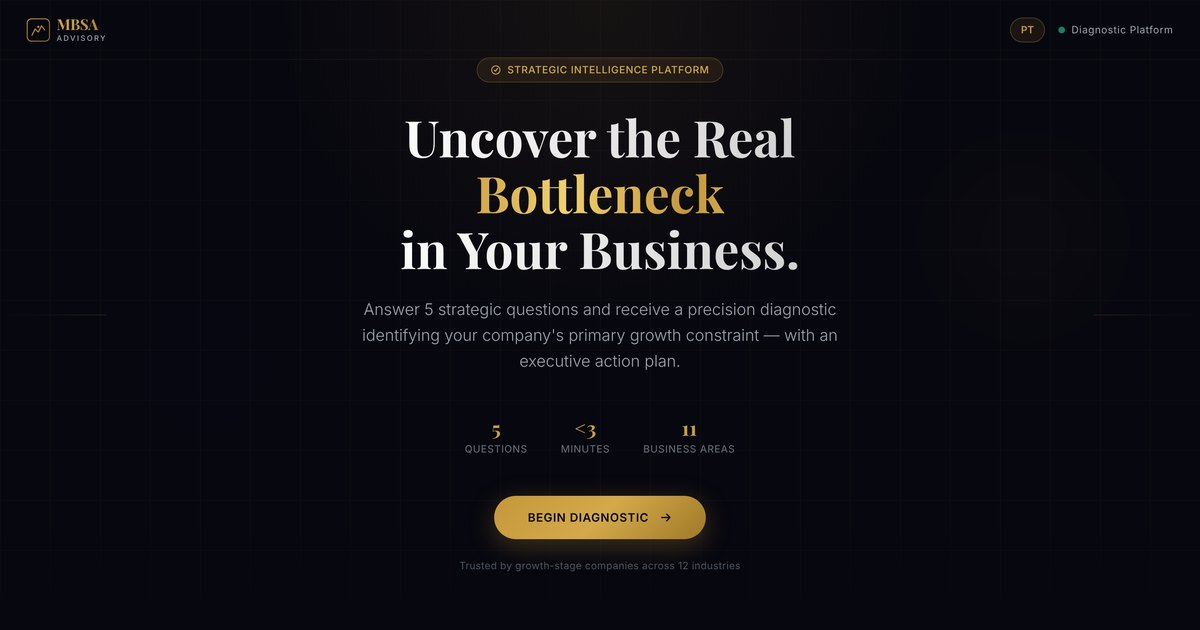
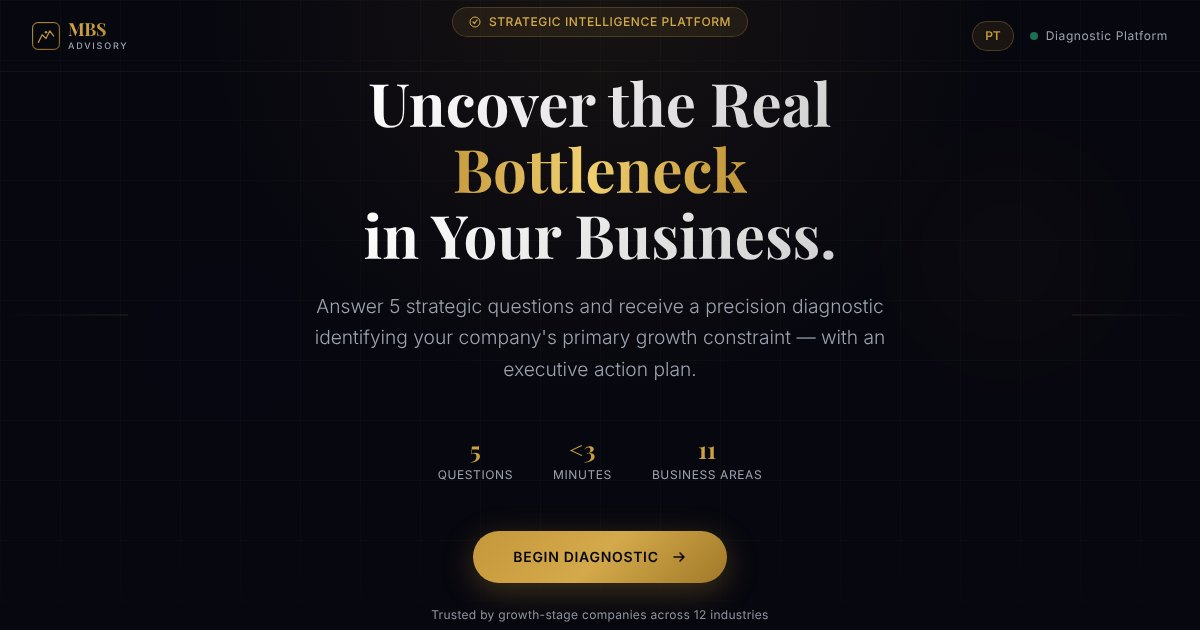
Brand: MBS Advisory everywhere (was MBSA) (#3)
Logo, page title, Open Graph / Twitter metadata, site name, social
preview image (re-captured from the landing page) and package name now
say "MBS Advisory", matching the other MBS sites.

Claude-Session: https://claude.ai/code/session_01H7nTUnYvdveF7rdjHHDmxM

diff --git a/app/layout.tsx b/app/layout.tsx
@@ -24,21 +24,21 @@ const SITE_URL = 'https://marlonbsiqueira.github.io/MBSforms/';
 
 export const metadata: Metadata = {
   metadataBase: new URL(SITE_URL),
-  title: 'MBSA Advisory | Strategic Business Diagnostic',
+  title: 'MBS Advisory | Strategic Business Diagnostic',
   description:
     'AI-powered business diagnostic platform. Identify your company\'s real bottlenecks and unlock your next level of growth.',
   alternates: { canonical: SITE_URL },
   openGraph: {
-    title: 'MBSA Advisory | Strategic Business Diagnostic',
+    title: 'MBS Advisory | Strategic Business Diagnostic',
     description: 'Identify your company\'s real bottlenecks in under 5 minutes.',
     type: 'website',
     url: SITE_URL,
-    siteName: 'MBSA Advisory',
-    images: [{ url: `${SITE_URL}og-image.jpg`, width: 1200, height: 630, alt: 'MBSA Advisory — Strategic Business Diagnostic' }],
+    siteName: 'MBS Advisory',
+    images: [{ url: `${SITE_URL}og-image.jpg`, width: 1200, height: 630, alt: 'MBS Advisory — Strategic Business Diagnostic' }],
   },
   twitter: {
     card: 'summary_large_image',
-    title: 'MBSA Advisory | Strategic Business Diagnostic',
+    title: 'MBS Advisory | Strategic Business Diagnostic',
     description: 'Identify your company\'s real bottlenecks in under 5 minutes.',
     images: [`${SITE_URL}og-image.jpg`],
   },

diff --git a/components/ui/Logo.tsx b/components/ui/Logo.tsx
@@ -64,7 +64,7 @@ export default function Logo({ size = 'md', variant = 'full' }: LogoProps) {
               backgroundClip: 'text',
             }}
           >
-            MBSA
+            MBS
           </span>
           <span
             className={`${s.sub} font-body font-medium tracking-[0.2em] uppercase text-gray-400 leading-tight mt-0.5`}
